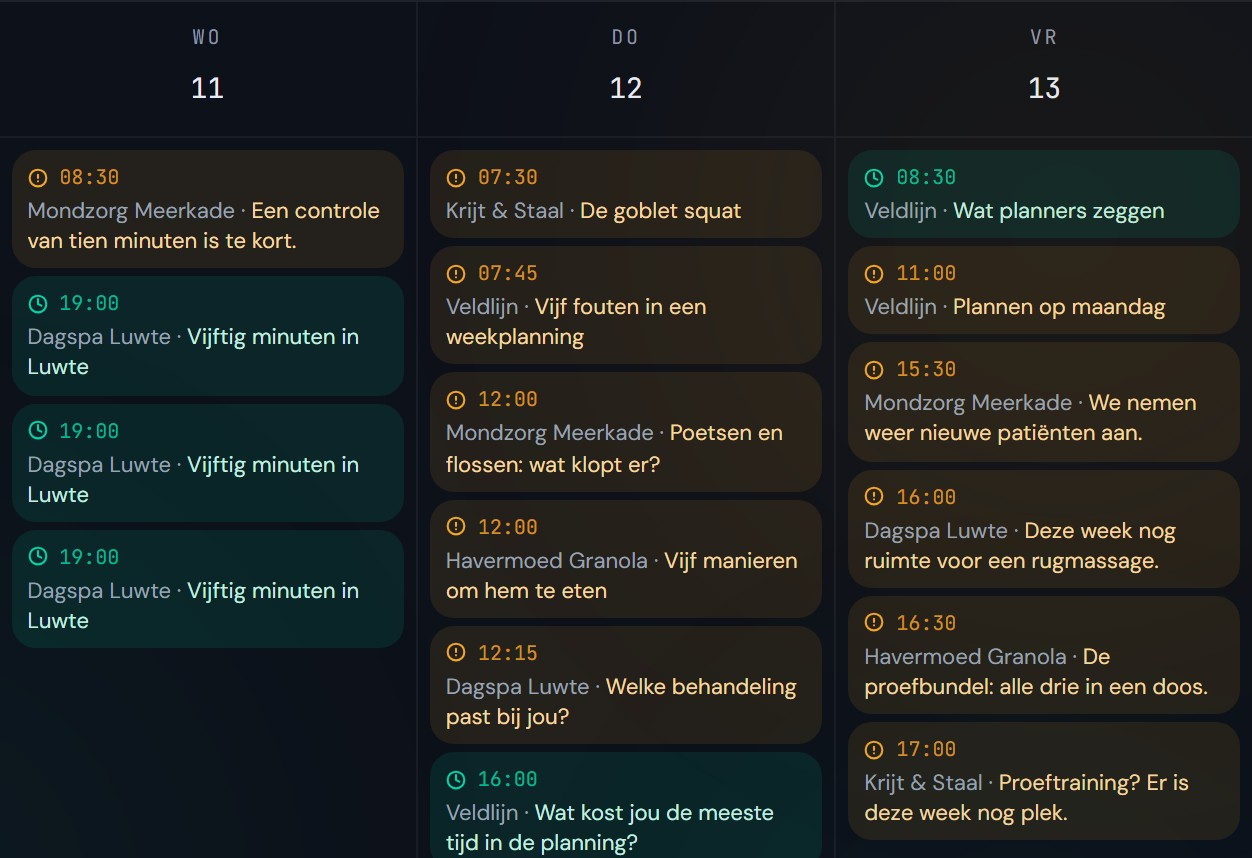
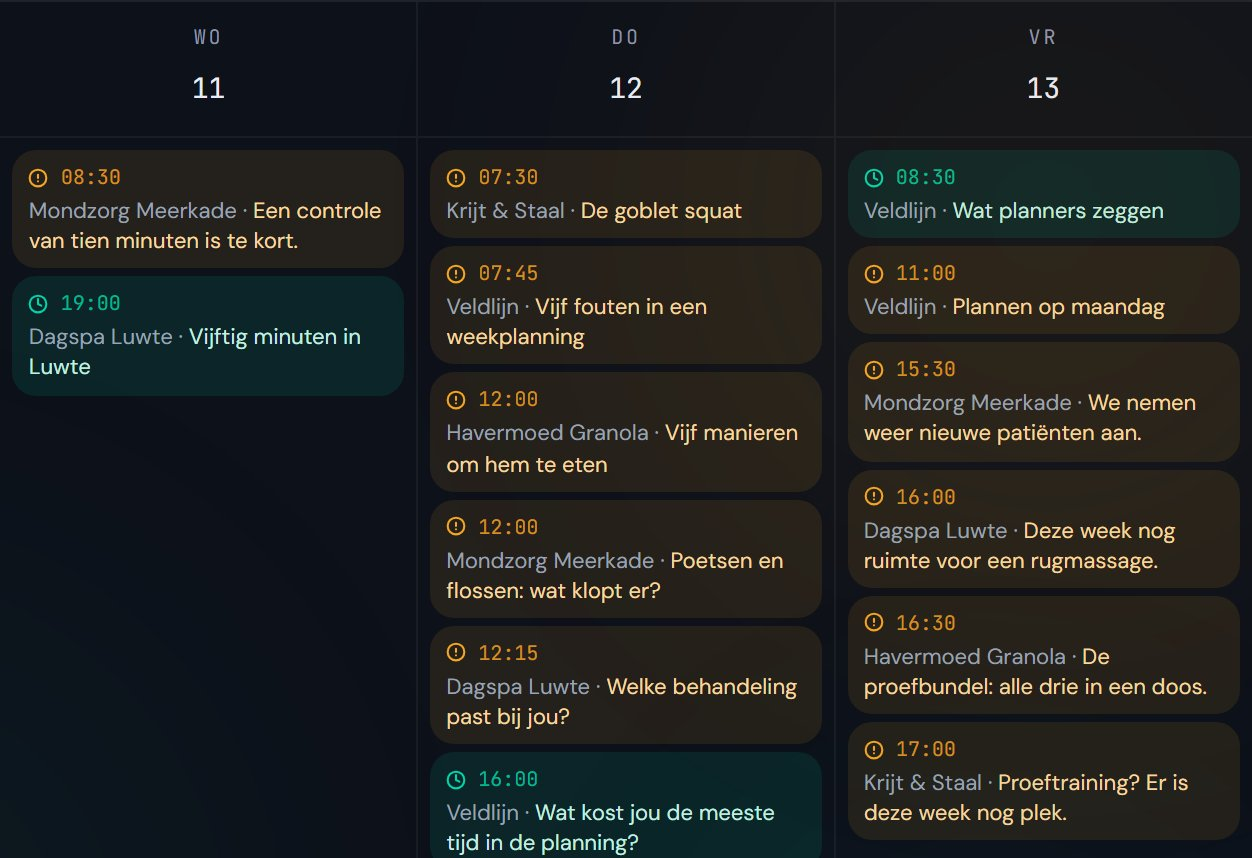
feat(home): hero and werk show the new demo templates, and the hero calendar shows the Luwte reel once, because the posts on the site were the old renders and the week listed one reel three times (Daley 2026-11-08)
The seven post images are byte-equal to fma-app origin/master public/demo/brands/<merk>/posts (same sizes).
h3-kal.jpg is a fresh capture of the demo week (9-15 Nov, compact week view, 1767 px, Dagspa Luwte TikTok
and Facebook filtered out), cropped on the old geometry so rings 1 and 3 still fit; ring 2 and its amber
overlay now cover the single Luwte card, and the scene description says what the calendar shows.

Claude-Session: https://claude.ai/code/session_01MYYWAKhZkmPTDyz7ckG83w

diff --git a/fmai-nextjs/src/components/home/hero3/Hero3Section.tsx b/fmai-nextjs/src/components/home/hero3/Hero3Section.tsx
@@ -158,7 +158,7 @@ export function Hero3View({ t }: { t: HeroT }) {
                 {' '}
                 <span className="h3ring" data-r="1" style={{ left: "0.26%", top: "16.28%", width: "32.71%", height: "16.15%" } as CSSProperties}>
                 </span>
-                <span className="h3ring" data-r="2" style={{ left: "0.26%", top: "30.97%", width: "32.71%", height: "45.75%" } as CSSProperties}>
+                <span className="h3ring" data-r="2" style={{ left: "0.26%", top: "30.97%", width: "32.71%", height: "16.15%" } as CSSProperties}>
                 </span>
                 <span className="h3ring" data-r="3" style={{ left: "67.03%", top: "82.95%", width: "32.71%", height: "16.15%" } as CSSProperties}>
                 </span>
@@ -205,36 +205,6 @@ export function Hero3View({ t }: { t: HeroT }) {
                       {t("screens.n11")}{' '}
                     </span>
                     {t("screens.n12")}
-                  </p>
-                </div>
-                {' '}
-                <div className="kc kp" data-at="2" style={{ left: ".96%", top: "47.09%" } as CSSProperties}>
-                  <span className="kt">
-                    <svg>
-                      <use href="#h3-i-due" />
-                    </svg>
-                    {t("screens.n13")}
-                  </span>
-                  <p>
-                    <span>
-                      {t("screens.n14")}{' '}
-                    </span>
-                    {t("screens.n15")}
-                  </p>
-                </div>
-                {' '}
-                <div className="kc kp" data-at="2" style={{ left: ".96%", top: "61.77%" } as CSSProperties}>
-                  <span className="kt">
-                    <svg>
-                      <use href="#h3-i-due" />
-                    </svg>
-                    {t("screens.n16")}
-                  </span>
-                  <p>
-                    <span>
-                      {t("screens.n17")}{' '}
-                    </span>
-                    {t("screens.n18")}
                   </p>
                 </div>
                 {' '}
